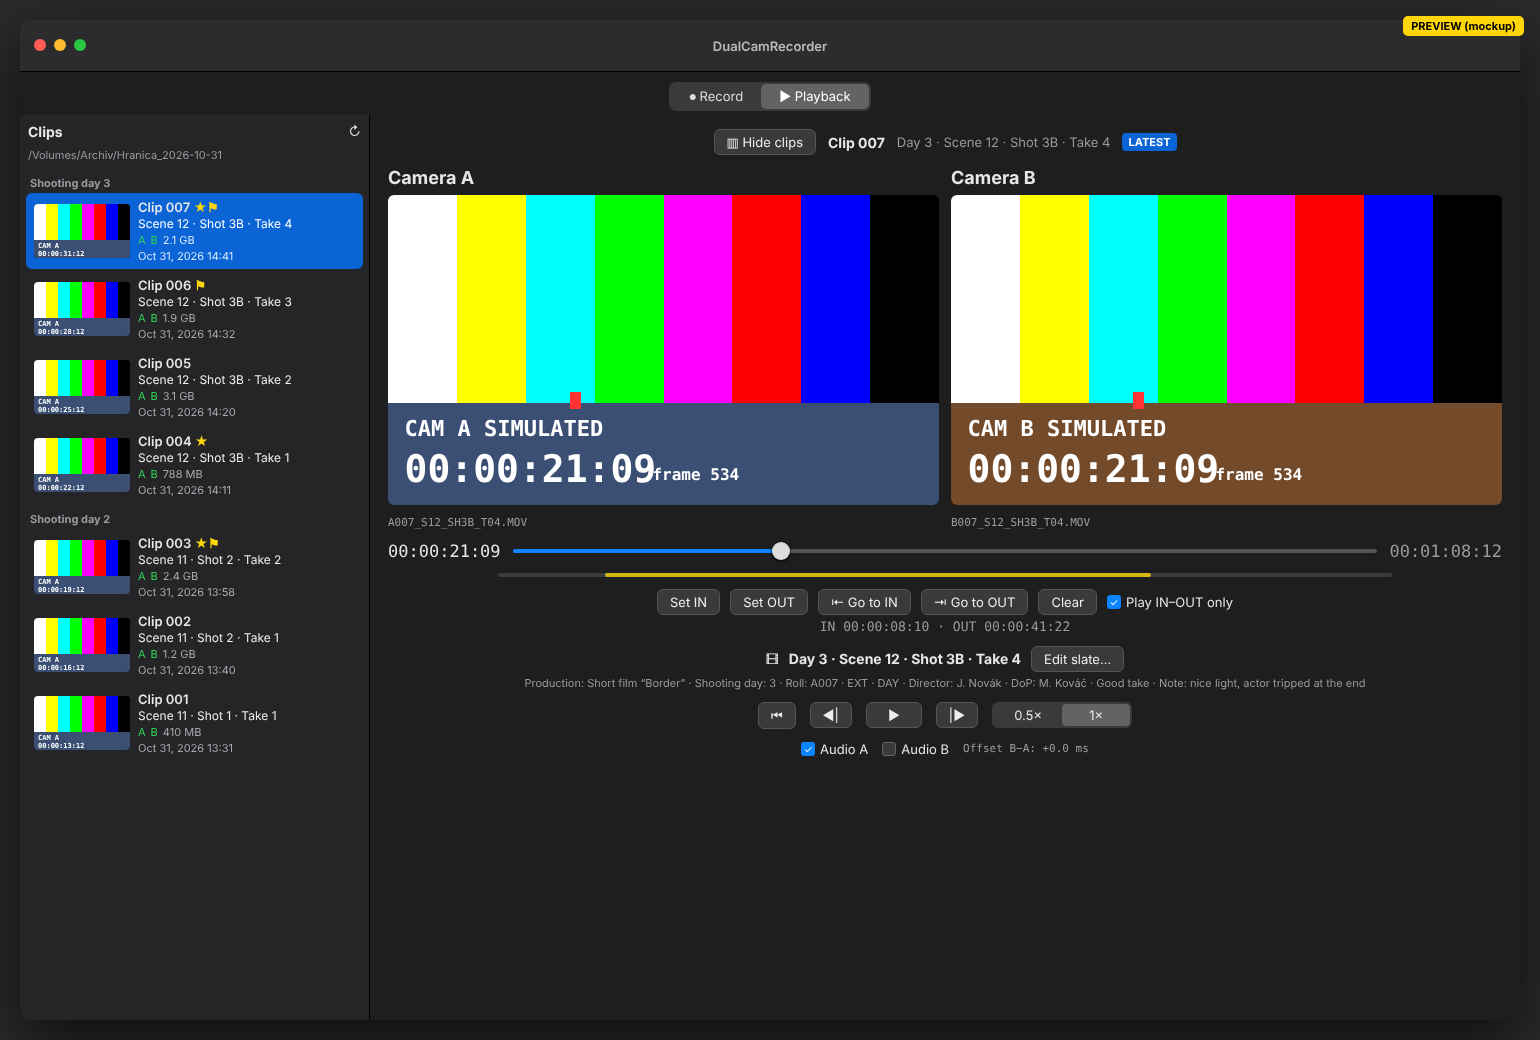
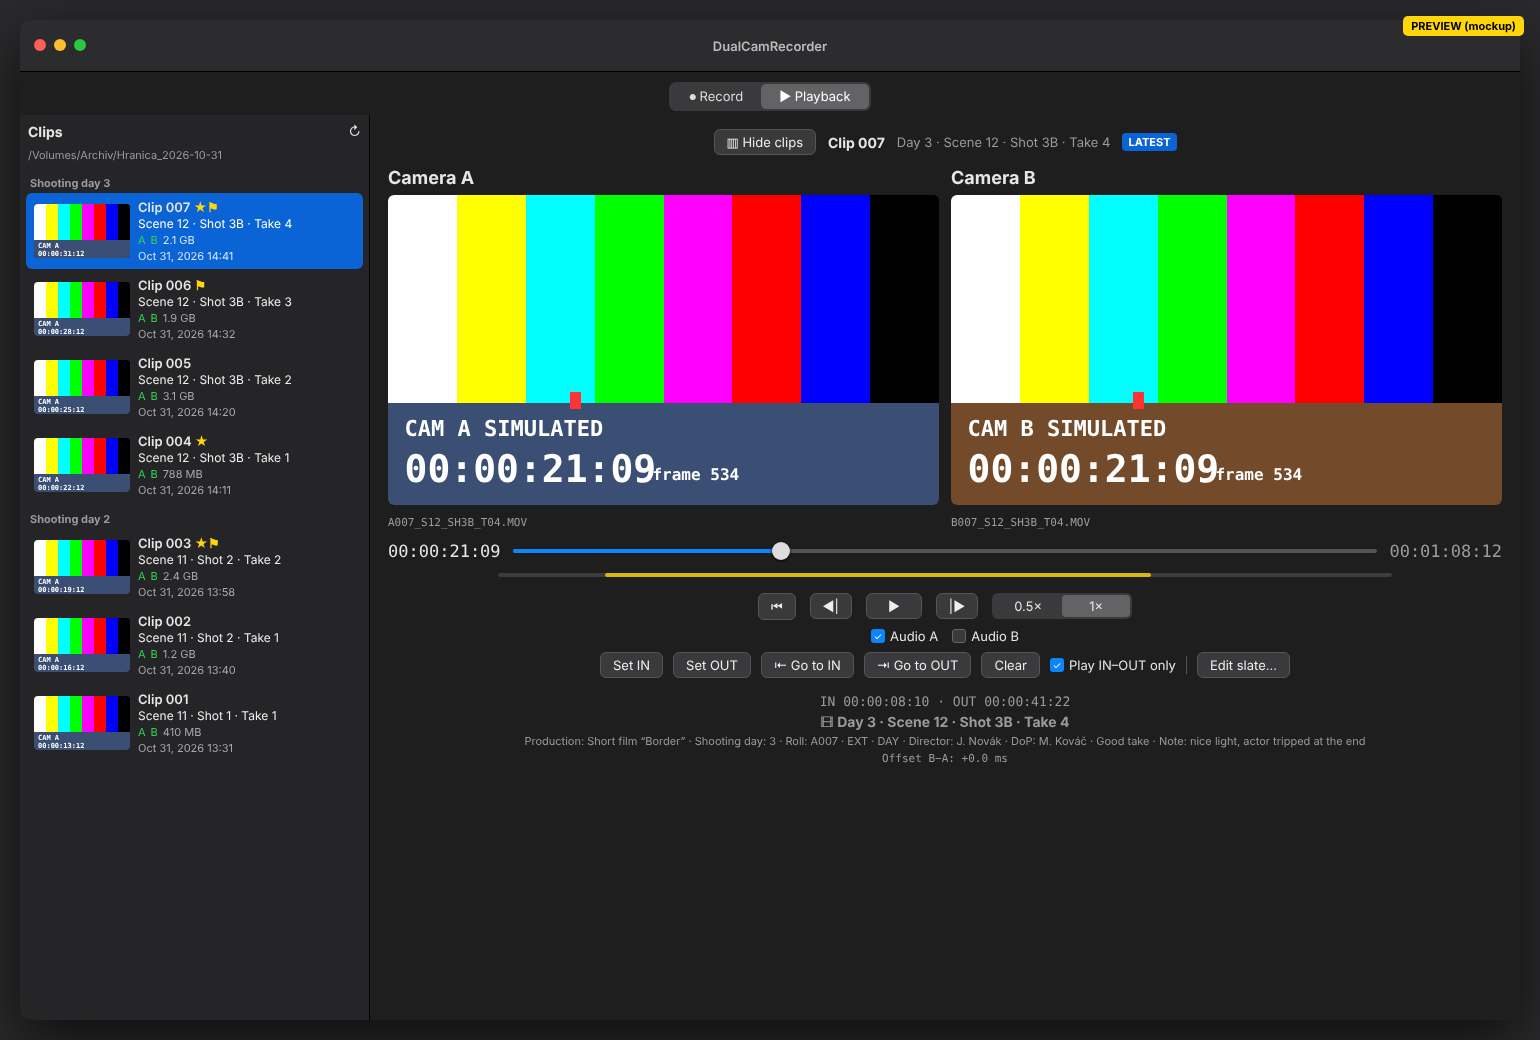
Stack all playback buttons together with the info below them
Order: transport buttons + speed, audio toggles, IN/OUT buttons with
"Edit slate…", then the info block (IN/OUT times, slate summary and
description, A/B offset).

Claude-Session: https://claude.ai/code/session_01SjxyfTkJQH7RKsrkA8EJQA

diff --git a/DualCamRecorder/Views/PlaybackView.swift b/DualCamRecorder/Views/PlaybackView.swift
@@ -241,62 +241,7 @@ struct PlaybackView: View {
         .padding(.horizontal, 110)
     }
 
-    /// Slate summary of the loaded take + edit button.
-    private var slateInfo: some View {
-        VStack(spacing: 4) {
-            HStack(alignment: .firstTextBaseline, spacing: 10) {
-                Image(systemName: "film.stack")
-                if let slate = player.slate {
-                    Text(slate.shortLabel).font(.headline).fixedSize()
-                } else {
-                    Text("This clip has no slate data.").foregroundStyle(.secondary)
-                }
-                Button("Edit slate…") { editingSlate = true }
-                    .disabled(player.take == nil)
-            }
-            if let slate = player.slate {
-                Text(slate.longDescription.replacingOccurrences(of: "\n", with: "  ·  "))
-                    .font(.caption).foregroundStyle(.secondary).lineLimit(2)
-                    .multilineTextAlignment(.center)
-            }
-        }
-        .frame(maxWidth: .infinity)
-        .sheet(isPresented: $editingSlate) {
-            SlateEditSheet(slate: player.slate ?? SlateInfo(),
-                           takeName: player.take?.name ?? "",
-                           onSave: { player.updateSlate($0) })
-        }
-    }
-
-    private var markControls: some View {
-        VStack(spacing: 4) {
-            HStack(spacing: 10) {
-                Button("Set IN") { player.setIn() }
-                    .keyboardShortcut("i", modifiers: [])
-                    .help("IN at the current frame (I)")
-                Button("Set OUT") { player.setOut() }
-                    .keyboardShortcut("o", modifiers: [])
-                    .help("OUT at the current frame (O)")
-                Button { player.goToIn() } label: { Label("Go to IN", systemImage: "arrow.left.to.line") }
-                    .disabled(player.marks.inPoint == nil)
-                Button { player.goToOut() } label: { Label("Go to OUT", systemImage: "arrow.right.to.line") }
-                    .disabled(player.marks.outPoint == nil)
-                Button("Clear") { player.clearMarks() }
-                    .disabled(player.marks.isEmpty)
-                Toggle("Play IN–OUT only", isOn: $player.limitToRange)
-            }
-            HStack(spacing: 10) {
-                Text("IN \(player.marks.inPoint.map { player.timecode($0) } ?? "—")  ·  OUT \(player.marks.outPoint.map { player.timecode($0) } ?? "—")")
-                    .font(.system(.callout, design: .monospaced))
-                    .foregroundStyle(.secondary)
-                if let msg = player.marksMessage {
-                    Text(msg).font(.caption).foregroundStyle(.red)
-                }
-            }
-        }
-        .frame(maxWidth: .infinity)
-        .disabled(player.take == nil)
-    }
+    // MARK: - Controls: all buttons stacked, info below
 
     private var transport: some View {
         VStack(spacing: 8) {
@@ -316,46 +261,108 @@ struct PlaybackView: View {
                     .foregroundStyle(.secondary)
             }
             rangeBar
-            markControls
-            slateInfo
-            HStack(spacing: 14) {
-                Button { player.goToStart() } label: { Image(systemName: "backward.end.fill") }
-                    .help("Go to start")
-                Button { player.step(-1) } label: { Image(systemName: "backward.frame.fill") }
-                    .keyboardShortcut(.leftArrow, modifiers: [])
-                    .help("One frame back (←)")
-                Button { player.togglePlay() } label: {
-                    Image(systemName: player.isPlaying ? "pause.fill" : "play.fill").frame(width: 40)
-                }
-                .keyboardShortcut(.space, modifiers: [])
-                .help("Play / pause (space)")
-                Button { player.step(1) } label: { Image(systemName: "forward.frame.fill") }
-                    .keyboardShortcut(.rightArrow, modifiers: [])
-                    .help("One frame forward (→)")
 
-                Picker("Speed", selection: $player.rate) {
-                    Text("0.5×").tag(Float(0.5))
-                    Text("1×").tag(Float(1.0))
-                }
-                .pickerStyle(.segmented)
-                .frame(width: 140)
+            // Buttons, one group under another.
+            VStack(spacing: 8) {
+                transportButtons
+                audioButtons
+                markButtons
             }
-            .frame(maxWidth: .infinity)
+            .padding(.top, 4)
             .disabled(player.take == nil)
 
-            // Audio on its own row.
-            HStack(spacing: 14) {
-                Toggle("Audio A", isOn: $player.audioA)
-                Toggle("Audio B", isOn: $player.audioB)
-
-                if let offset = player.abOffsetMs {
-                    Text(String(format: "Offset B−A: %+.1f ms", offset))
-                        .font(.caption.monospacedDigit())
-                        .foregroundStyle(abs(offset) > 1000 * player.frameDuration.seconds ? .red : .secondary)
-                }
-            }
-            .frame(maxWidth: .infinity)
-            .disabled(player.take == nil)
+            // Info under the buttons.
+            infoBlock
+                .padding(.top, 6)
         }
+        .frame(maxWidth: .infinity)
+        .sheet(isPresented: $editingSlate) {
+            SlateEditSheet(slate: player.slate ?? SlateInfo(),
+                           takeName: player.take?.name ?? "",
+                           onSave: { player.updateSlate($0) })
+        }
+    }
+
+    private var transportButtons: some View {
+        HStack(spacing: 14) {
+            Button { player.goToStart() } label: { Image(systemName: "backward.end.fill") }
+                .help("Go to start")
+            Button { player.step(-1) } label: { Image(systemName: "backward.frame.fill") }
+                .keyboardShortcut(.leftArrow, modifiers: [])
+                .help("One frame back (←)")
+            Button { player.togglePlay() } label: {
+                Image(systemName: player.isPlaying ? "pause.fill" : "play.fill").frame(width: 40)
+            }
+            .keyboardShortcut(.space, modifiers: [])
+            .help("Play / pause (space)")
+            Button { player.step(1) } label: { Image(systemName: "forward.frame.fill") }
+                .keyboardShortcut(.rightArrow, modifiers: [])
+                .help("One frame forward (→)")
+
+            Picker("Speed", selection: $player.rate) {
+                Text("0.5×").tag(Float(0.5))
+                Text("1×").tag(Float(1.0))
+            }
+            .pickerStyle(.segmented)
+            .frame(width: 140)
+        }
+    }
+
+    private var audioButtons: some View {
+        HStack(spacing: 14) {
+            Toggle("Audio A", isOn: $player.audioA)
+            Toggle("Audio B", isOn: $player.audioB)
+        }
+    }
+
+    private var markButtons: some View {
+        HStack(spacing: 10) {
+            Button("Set IN") { player.setIn() }
+                .keyboardShortcut("i", modifiers: [])
+                .help("IN at the current frame (I)")
+            Button("Set OUT") { player.setOut() }
+                .keyboardShortcut("o", modifiers: [])
+                .help("OUT at the current frame (O)")
+            Button { player.goToIn() } label: { Label("Go to IN", systemImage: "arrow.left.to.line") }
+                .disabled(player.marks.inPoint == nil)
+            Button { player.goToOut() } label: { Label("Go to OUT", systemImage: "arrow.right.to.line") }
+                .disabled(player.marks.outPoint == nil)
+            Button("Clear") { player.clearMarks() }
+                .disabled(player.marks.isEmpty)
+            Toggle("Play IN–OUT only", isOn: $player.limitToRange)
+            Divider().frame(height: 18)
+            Button("Edit slate…") { editingSlate = true }
+        }
+    }
+
+    /// IN/OUT times, slate summary and the A/B offset.
+    private var infoBlock: some View {
+        VStack(spacing: 4) {
+            HStack(spacing: 10) {
+                Text("IN \(player.marks.inPoint.map { player.timecode($0) } ?? "—")  ·  OUT \(player.marks.outPoint.map { player.timecode($0) } ?? "—")")
+                    .font(.system(.callout, design: .monospaced))
+                if let msg = player.marksMessage {
+                    Text(msg).font(.caption).foregroundStyle(.red)
+                }
+            }
+            if let slate = player.slate {
+                HStack(spacing: 6) {
+                    Image(systemName: "film.stack")
+                    Text(slate.shortLabel).font(.headline)
+                }
+                Text(slate.longDescription.replacingOccurrences(of: "\n", with: "  ·  "))
+                    .font(.caption).lineLimit(2)
+                    .multilineTextAlignment(.center)
+            } else if player.take != nil {
+                Text("This clip has no slate data.")
+            }
+            if let offset = player.abOffsetMs {
+                Text(String(format: "Offset B−A: %+.1f ms", offset))
+                    .font(.caption.monospacedDigit())
+                    .foregroundStyle(abs(offset) > 1000 * player.frameDuration.seconds ? Color.red : Color.secondary)
+            }
+        }
+        .foregroundStyle(.secondary)
+        .frame(maxWidth: .infinity)
     }
 }
